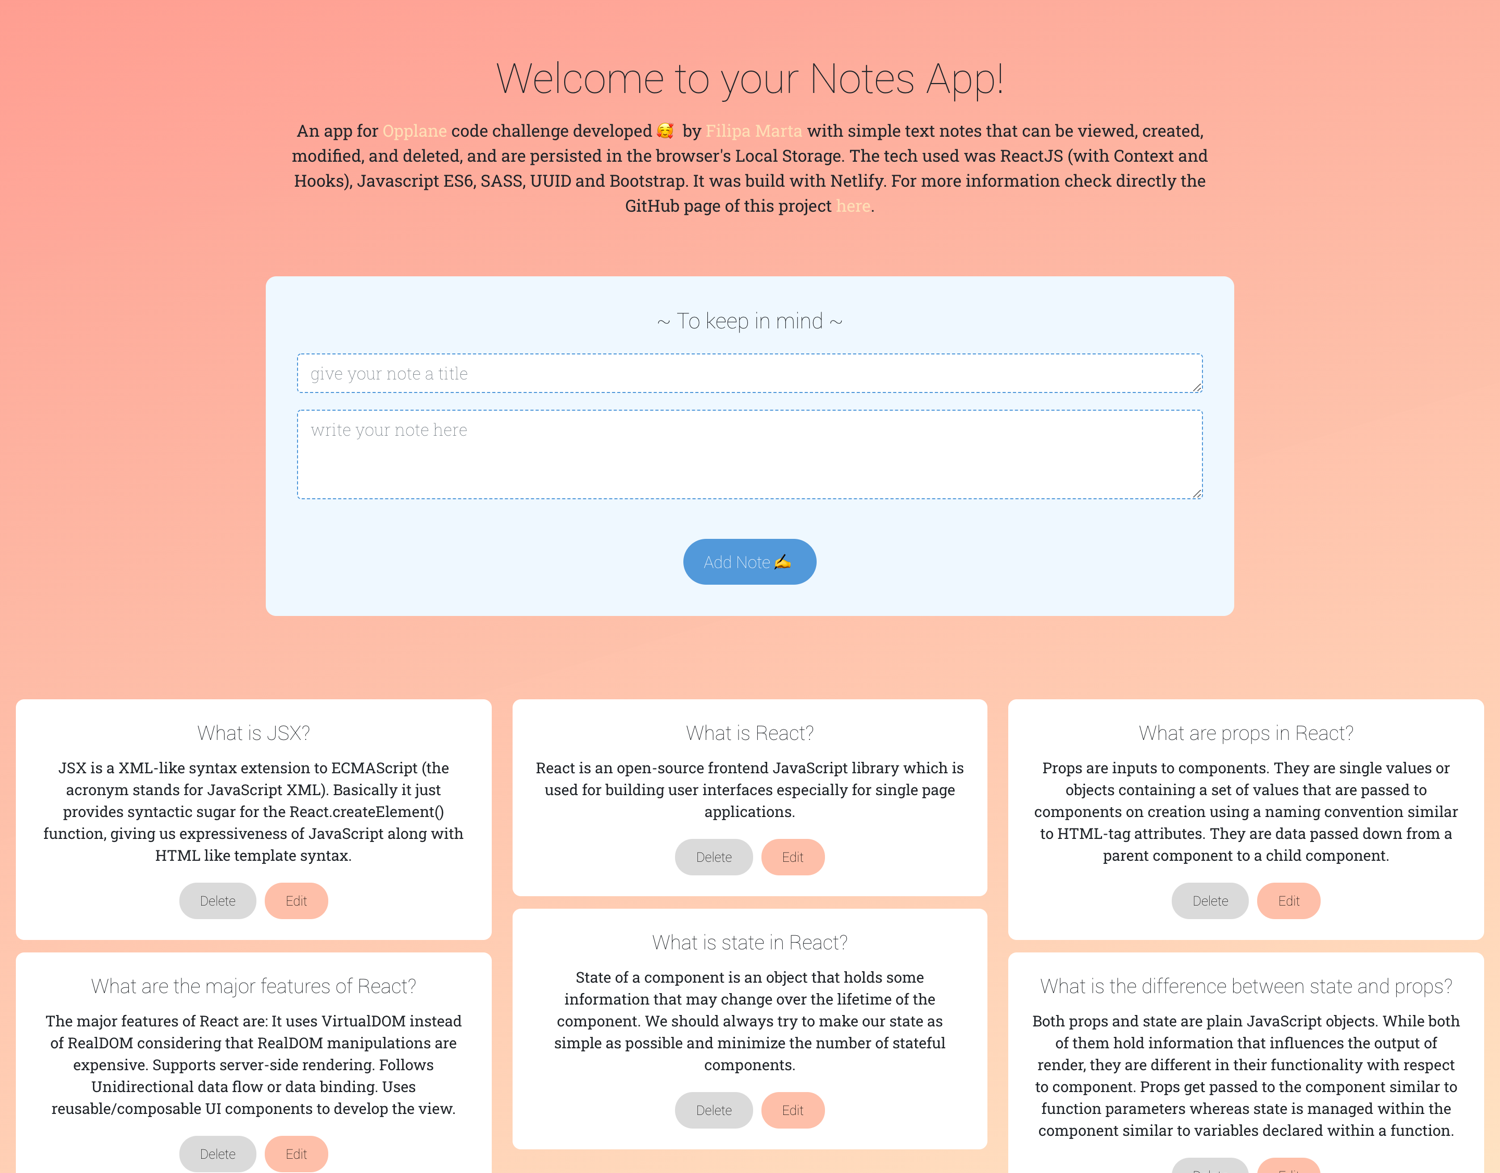
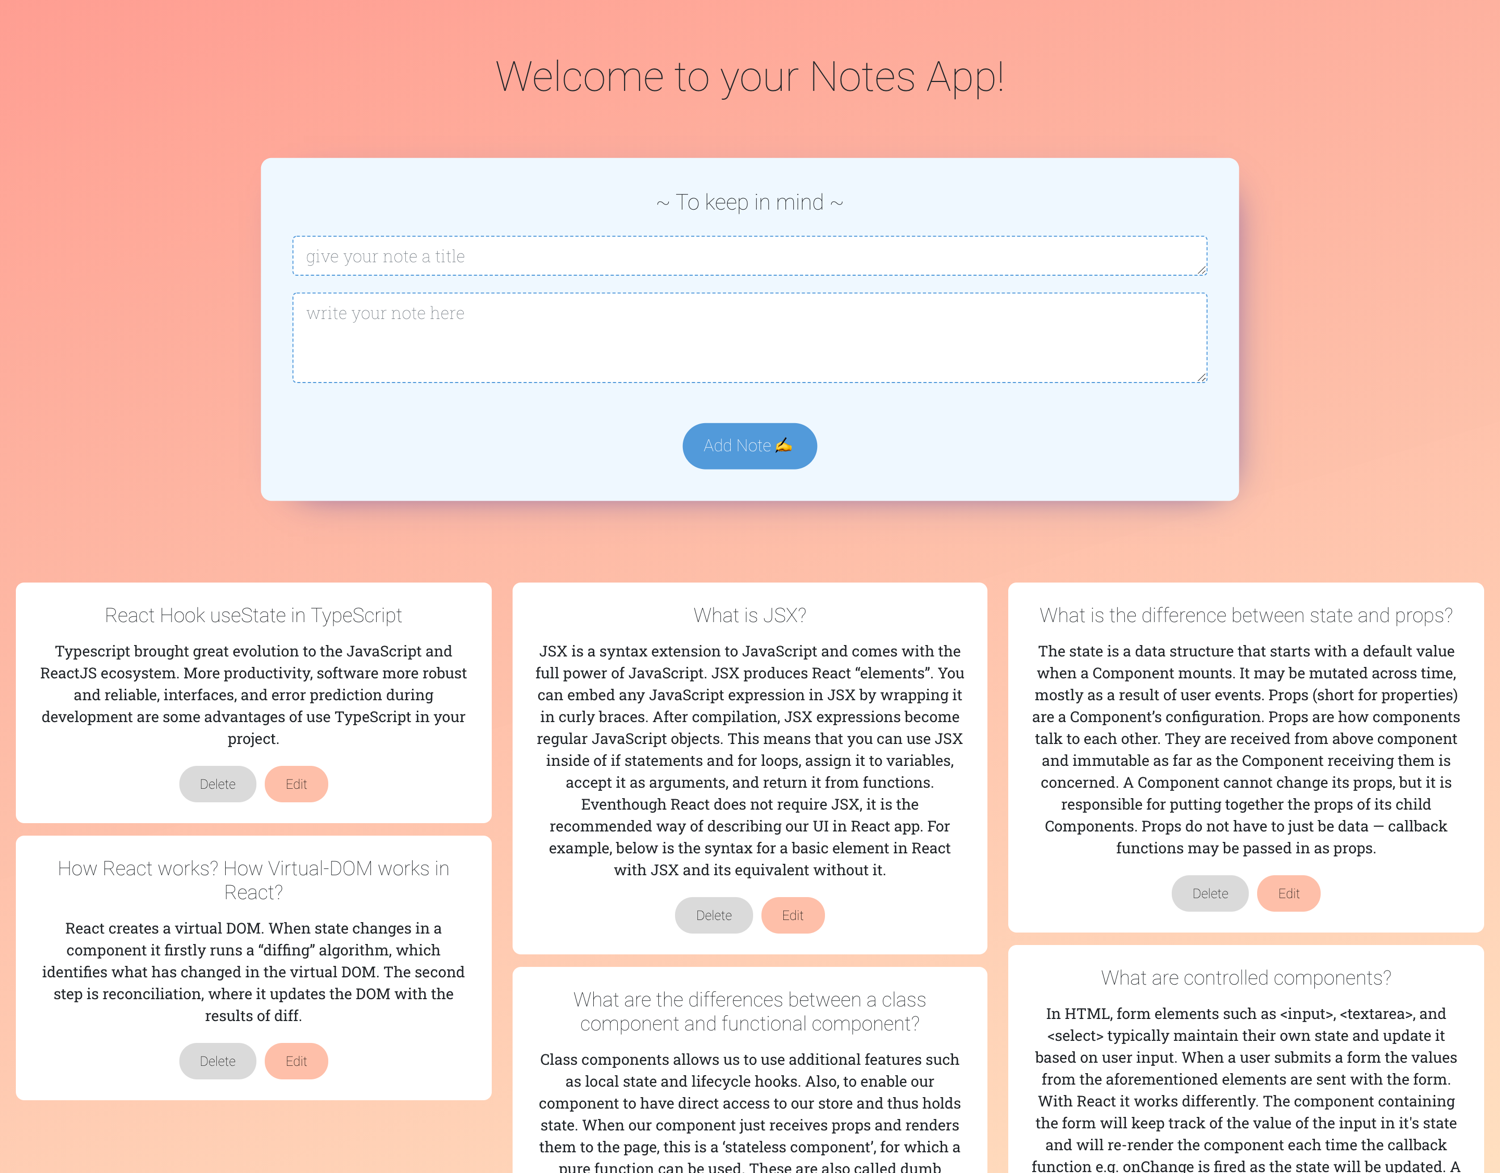
update images

diff --git a/src/App.js b/src/App.js
@@ -19,36 +19,6 @@ const App = () => (
         >
           <header>
             <h1>Welcome to your Notes App!</h1>
-            <p>
-              An app for{" "}
-              <a
-                href="https://www.opplane.com/"
-                target="_blank"
-                rel="noopener noreferrer"
-              >
-                Opplane
-              </a>{" "}
-              code challenge developed <span role="img" aria-label="love">🥰</span> by{" "}
-              <a
-                href="https://github.com/filipamarta"
-                target="_blank"
-                rel="noopener noreferrer"
-              >
-                Filipa Marta
-              </a>{" "}
-              with simple text notes that can be viewed, created, modified, and
-              deleted, and are persisted in the browser's Local Storage.
-              The tech used was ReactJS (with Context and Hooks), Javascript ES6, SASS, UUID and Bootstrap. It was build with Netlify. For more information
-              check directly the GitHub page of this project{" "}
-              <a
-                href="https://github.com/filipamarta/interview-opplane-challenge"
-                target="_blank"
-                rel="noopener noreferrer"
-              >
-                here
-              </a>
-              .
-            </p>
           </header>
         </Col>
       </Row>
